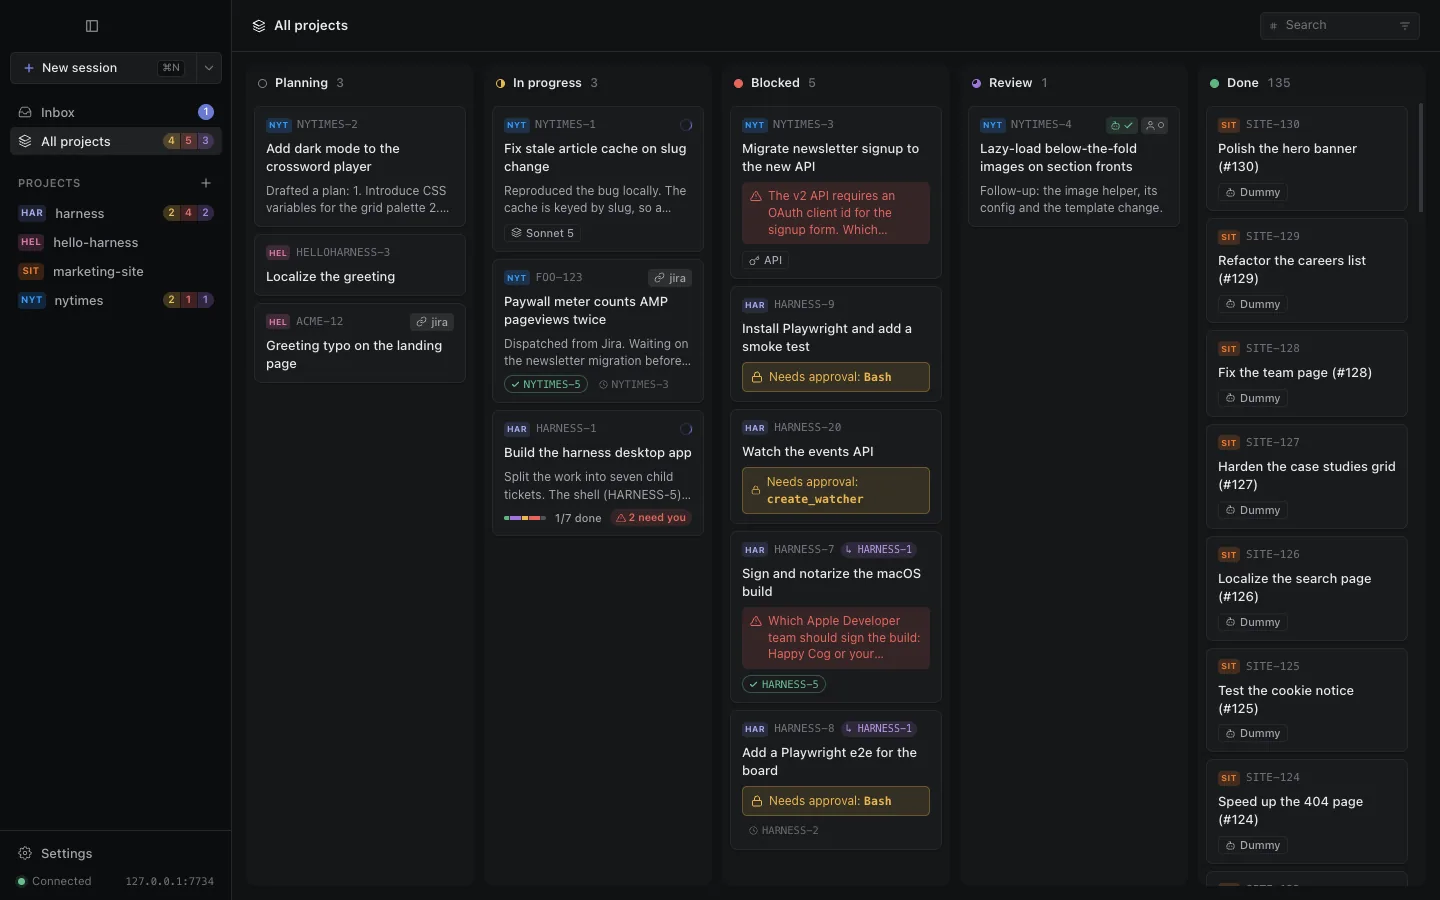
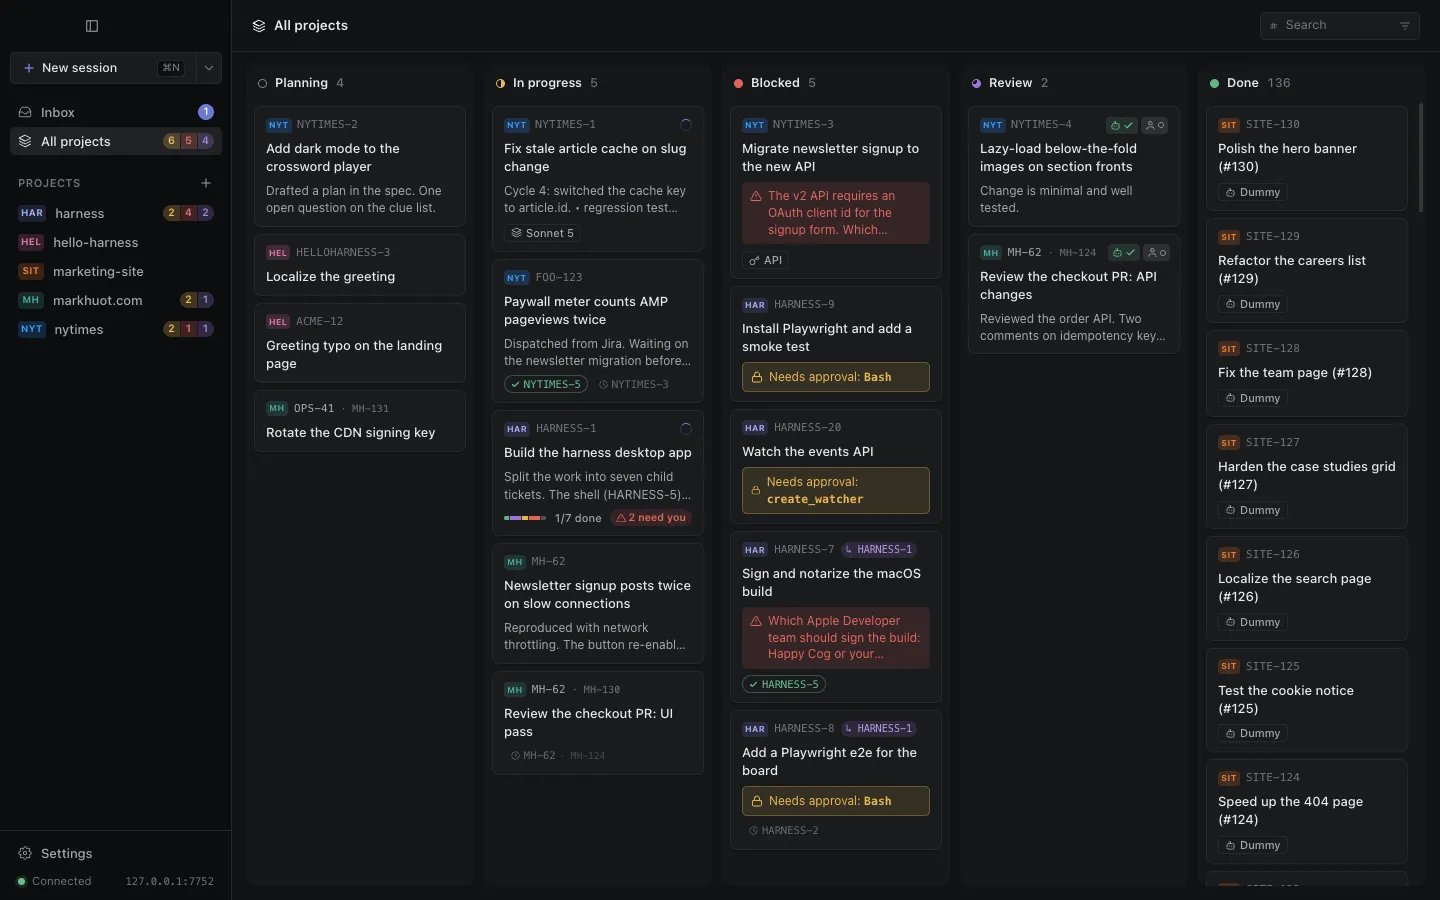
Install page: tiles for split panes, the live transcript, the agent's browser and the command palette; fresh board shot; groups on the hero (HARNESS-268)

diff --git a/release/Install/index.html b/release/Install/index.html
@@ -218,7 +218,7 @@
       <article class="tile hero">
         <div class="copy">
           <h3>Every agent session is a ticket</h3>
-          <p>Each job you hand an agent gets a card with a key like NYTIMES-4. The board shows what's in planning, what's running, what's waiting on you and what's ready for review, across every project on your Mac.</p>
+          <p>Each job you hand an agent gets a card with a key like NYTIMES-4. The board shows what's in planning, what's running, what's waiting on you and what's ready for review, across every project on your Mac. Put projects in groups (Work and Personal, say) to give each group a board of its own.</p>
         </div>
         <div class="shot">
           <picture>
@@ -296,6 +296,54 @@
           <picture>
             <source srcset="img/approval-dark.webp" media="(prefers-color-scheme: dark)">
             <img src="img/approval-light.webp" width="482" height="700" loading="lazy" alt="">
+          </picture>
+        </div>
+      </article>
+      <article class="tile full">
+        <div class="copy">
+          <h3>Several tickets open side by side</h3>
+          <p>Drag a card onto an open ticket to split the window, and keep the board, a ticket you're reviewing and one that's waiting on an answer in view at once. Each pane keeps its own tab and message box.</p>
+        </div>
+        <div class="shot">
+          <picture>
+            <source srcset="img/split-dark.webp" media="(prefers-color-scheme: dark)">
+            <img src="img/split-light.webp" width="1440" height="900" loading="lazy" alt="">
+          </picture>
+        </div>
+      </article>
+      <article class="tile small">
+        <div class="copy">
+          <h3>Watch the agent work</h3>
+          <p>The Transcript tab streams every message and tool call as it happens, along with why each command was allowed. Send a follow-up from the box underneath whenever you want to steer.</p>
+        </div>
+        <div class="shot">
+          <picture>
+            <source srcset="img/transcript-dark.webp" media="(prefers-color-scheme: dark)">
+            <img src="img/transcript-light.webp" width="482" height="800" loading="lazy" alt="">
+          </picture>
+        </div>
+      </article>
+      <article class="tile small">
+        <div class="copy">
+          <h3>A browser you can look over</h3>
+          <p>Each ticket gets its own Chrome tabs to open your dev server, read docs or click through a flow, and you see them live. Annotate a screenshot to point at exactly what needs to change.</p>
+        </div>
+        <div class="shot">
+          <picture>
+            <source srcset="img/browser-dark.webp" media="(prefers-color-scheme: dark)">
+            <img src="img/browser-light.webp" width="482" height="800" loading="lazy" alt="">
+          </picture>
+        </div>
+      </article>
+      <article class="tile small">
+        <div class="copy">
+          <h3>Everything from the keyboard</h3>
+          <p>Press ⌘K to jump to any ticket, board or project group, or run a command. Search finds tickets by key or title across every project.</p>
+        </div>
+        <div class="shot">
+          <picture>
+            <source srcset="img/palette-dark.webp" media="(prefers-color-scheme: dark)">
+            <img src="img/palette-light.webp" width="620" height="418" loading="lazy" alt="">
           </picture>
         </div>
       </article>

diff --git a/release/install-page.ts b/release/install-page.ts
@@ -94,7 +94,7 @@ export const features: { img: string; w: number; h: number; size: "hero" | "full
     h: 900,
     size: "hero",
     title: "Every agent session is a ticket",
-    body: "Each job you hand an agent gets a card with a key like NYTIMES-4. The board shows what's in planning, what's running, what's waiting on you and what's ready for review, across every project on your Mac.",
+    body: "Each job you hand an agent gets a card with a key like NYTIMES-4. The board shows what's in planning, what's running, what's waiting on you and what's ready for review, across every project on your Mac. Put projects in groups (Work and Personal, say) to give each group a board of its own.",
   },
   {
     img: "review",
@@ -143,6 +143,38 @@ export const features: { img: string; w: number; h: number; size: "hero" | "full
     size: "small",
     title: "You approve the risky commands",
     body: "Agents edit files in their own workspace freely. A command the permission rules don't allow (installing a package, say) stops the ticket until you allow it once, allow it for the ticket, or deny it with a note.",
+  },
+  {
+    img: "split",
+    w: 1440,
+    h: 900,
+    size: "full",
+    title: "Several tickets open side by side",
+    body: "Drag a card onto an open ticket to split the window, and keep the board, a ticket you're reviewing and one that's waiting on an answer in view at once. Each pane keeps its own tab and message box.",
+  },
+  {
+    img: "transcript",
+    w: 482,
+    h: 800,
+    size: "small",
+    title: "Watch the agent work",
+    body: "The Transcript tab streams every message and tool call as it happens, along with why each command was allowed. Send a follow-up from the box underneath whenever you want to steer.",
+  },
+  {
+    img: "browser",
+    w: 482,
+    h: 800,
+    size: "small",
+    title: "A browser you can look over",
+    body: "Each ticket gets its own Chrome tabs to open your dev server, read docs or click through a flow, and you see them live. Annotate a screenshot to point at exactly what needs to change.",
+  },
+  {
+    img: "palette",
+    w: 620,
+    h: 418,
+    size: "small",
+    title: "Everything from the keyboard",
+    body: "Press ⌘K to jump to any ticket, board or project group, or run a command. Search finds tickets by key or title across every project.",
   },
 ];
 
